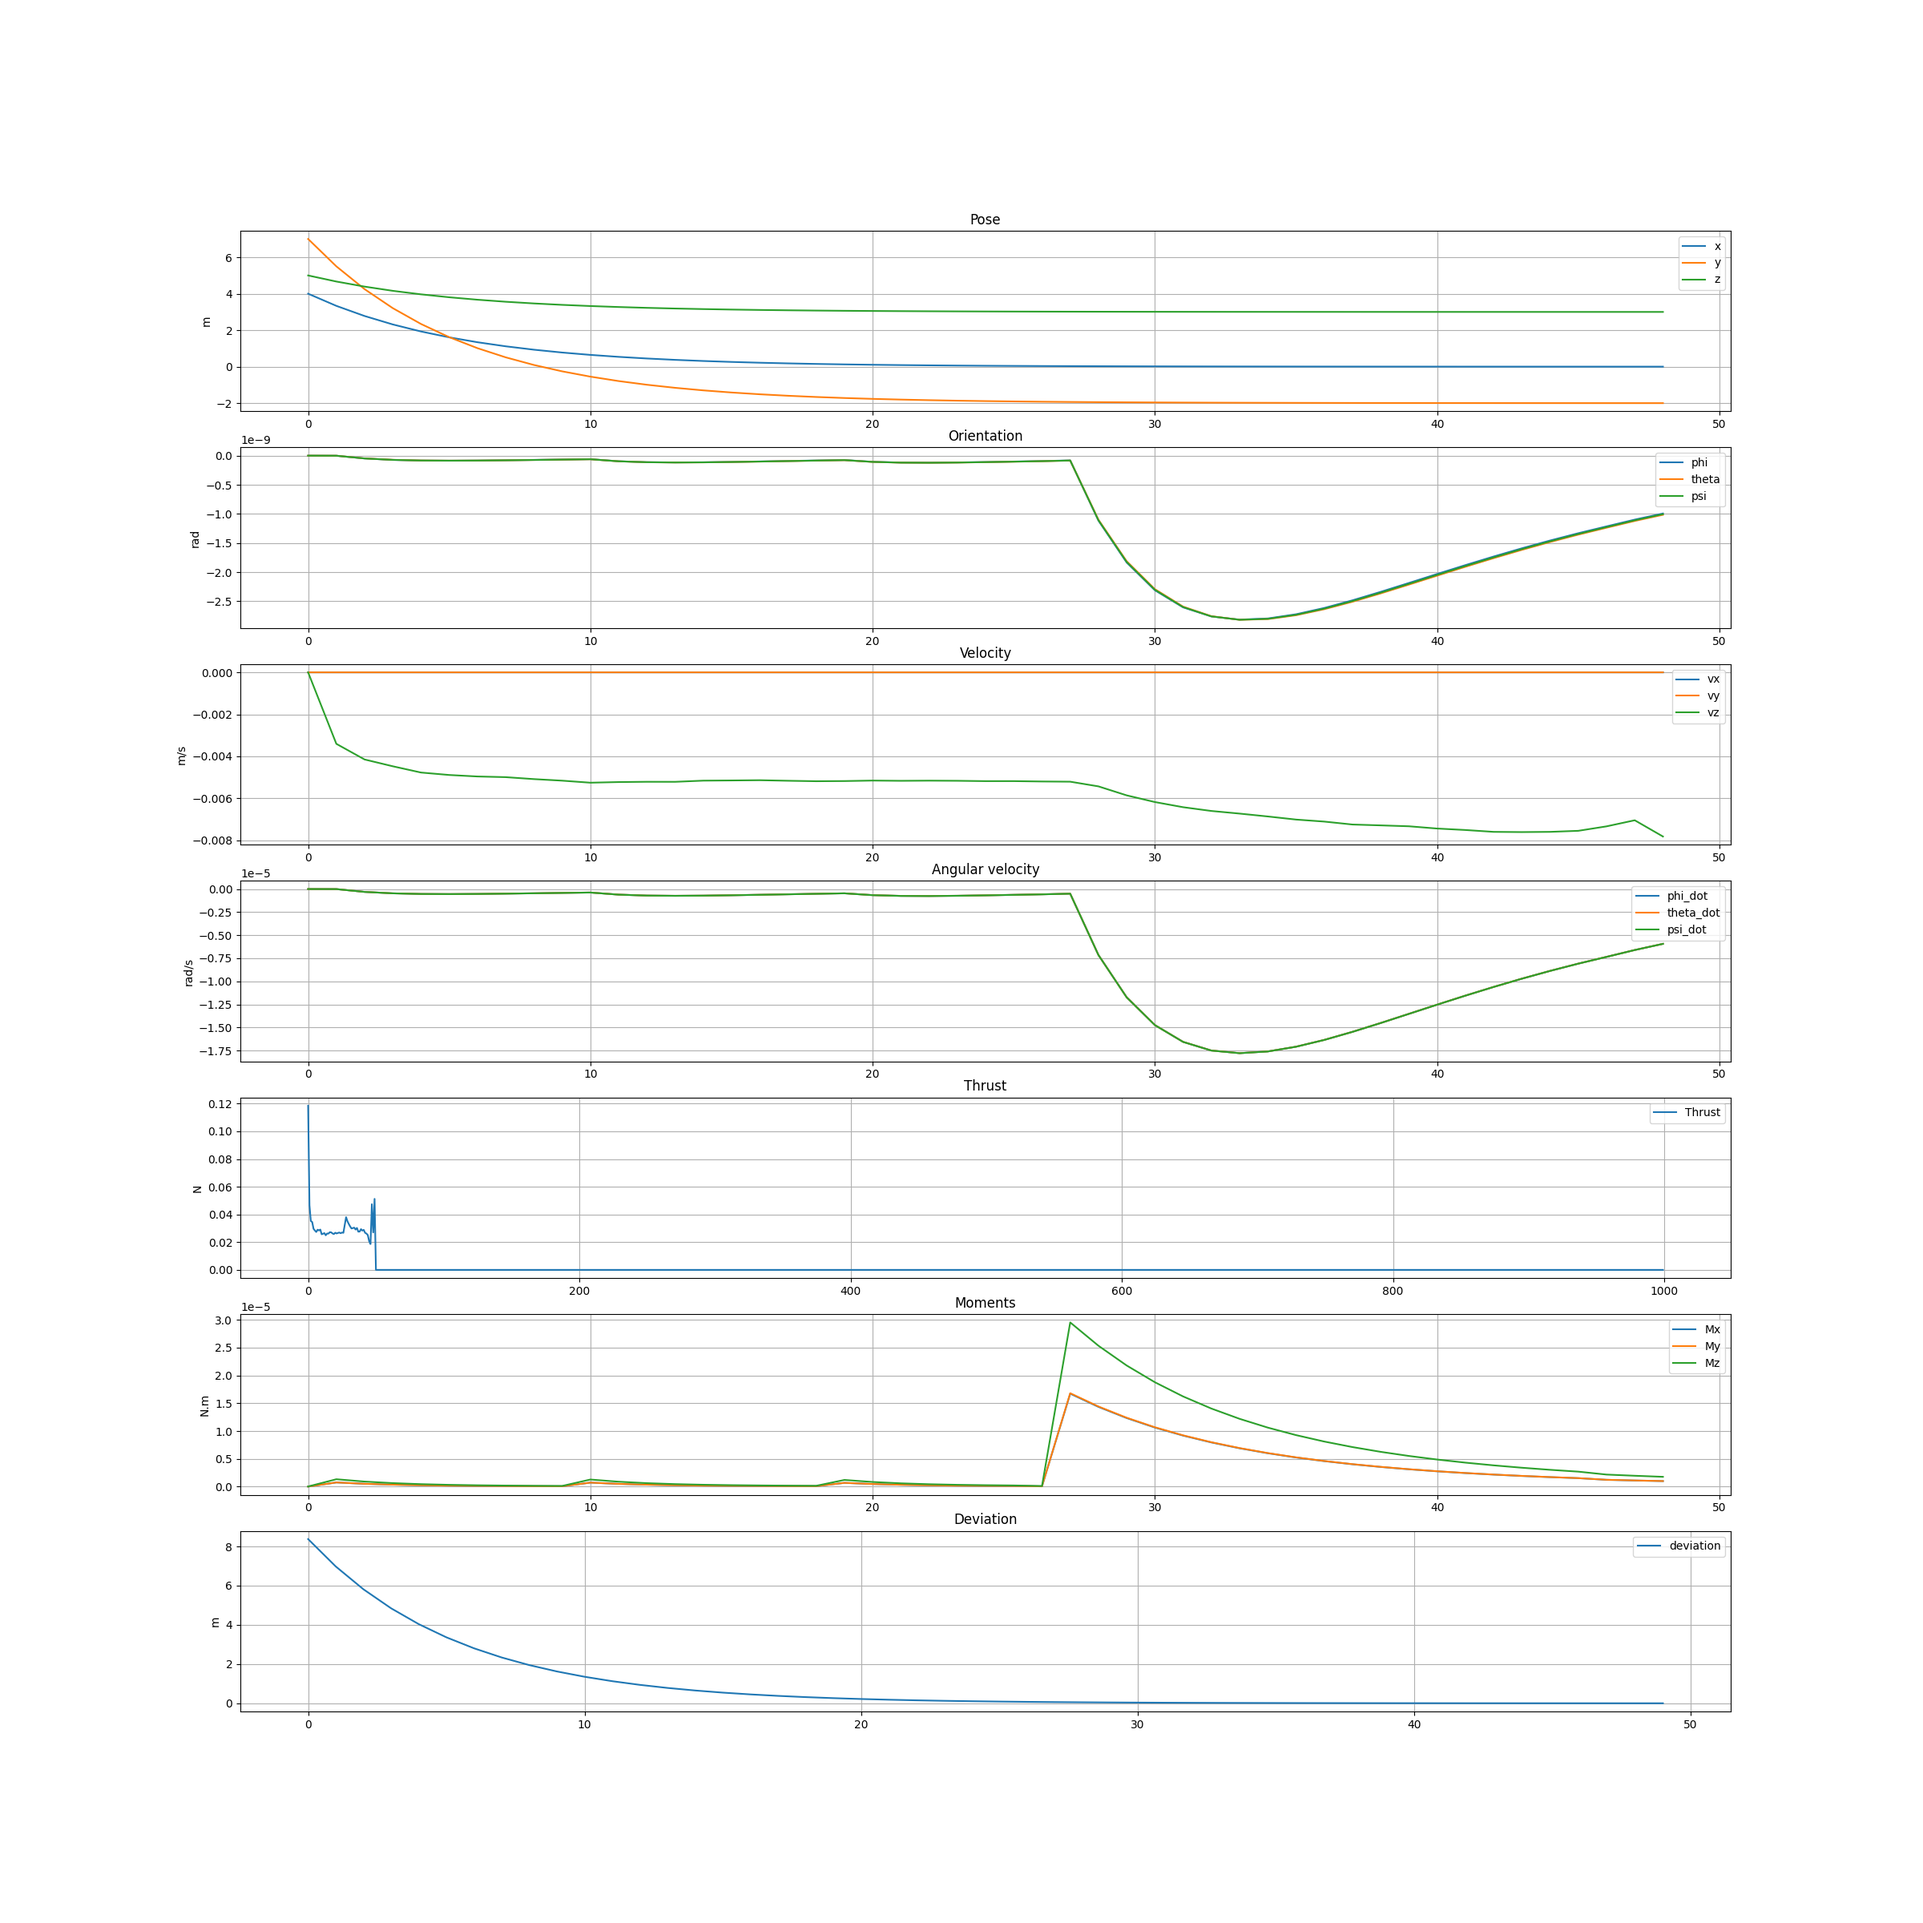
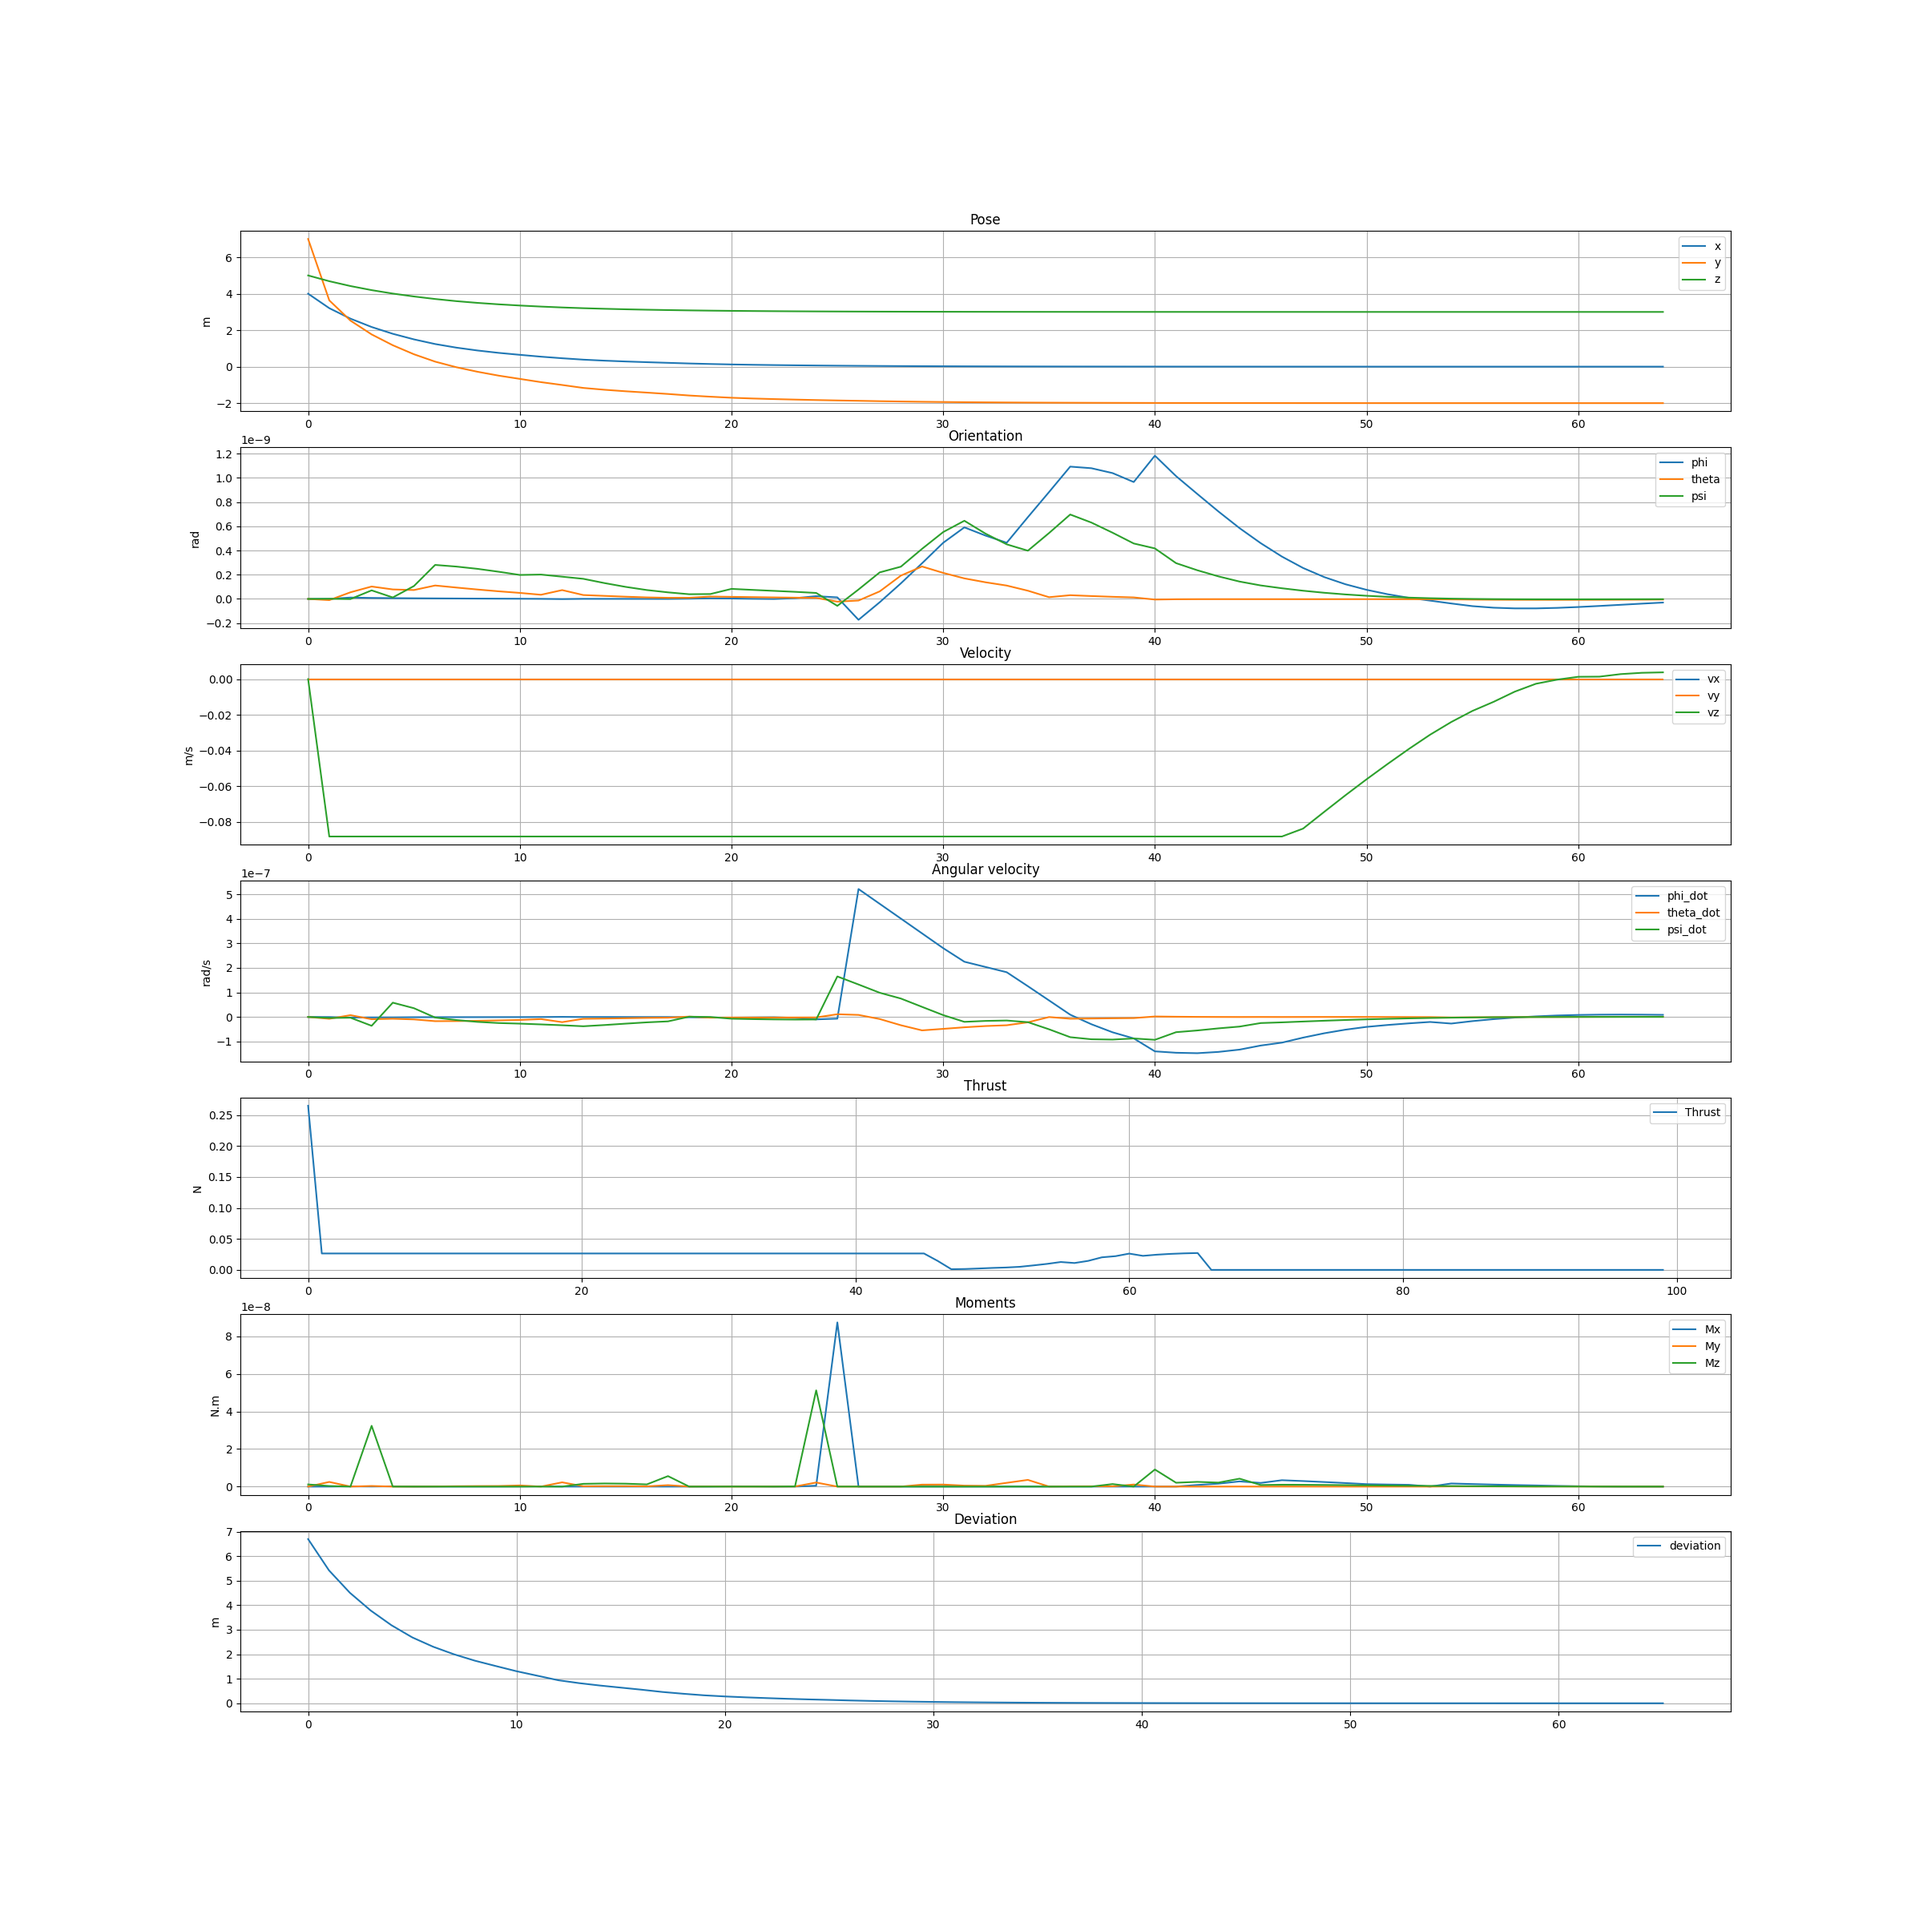
Ran few point simulations

diff --git a/main.py b/main.py
@@ -7,7 +7,7 @@ def main():
     # define the parameters 
     # Multiple Shooting
     N_dms = 10
-    T_dms = 0.001
+    T_dms = 0.01
     Tf_dms = 10
     nlpopts_dms = {'ipopt': {'print_level': 0, 'max_iter':200}, 'print_time' : 0}
 
@@ -35,8 +35,8 @@ def main():
     R = np.diag([1, 1, 1, 1])* 0.6
 
     # define the starting point
-    x_init = np.array([4, 7, 5])
-    x_desired = np.array([0, -2, 3])
+    x_init = np.array([0, 3, 0])
+    x_desired = np.array([1, 2, 9])
 
     # Thrust controlled MPC 
     function_type = "force_control"
